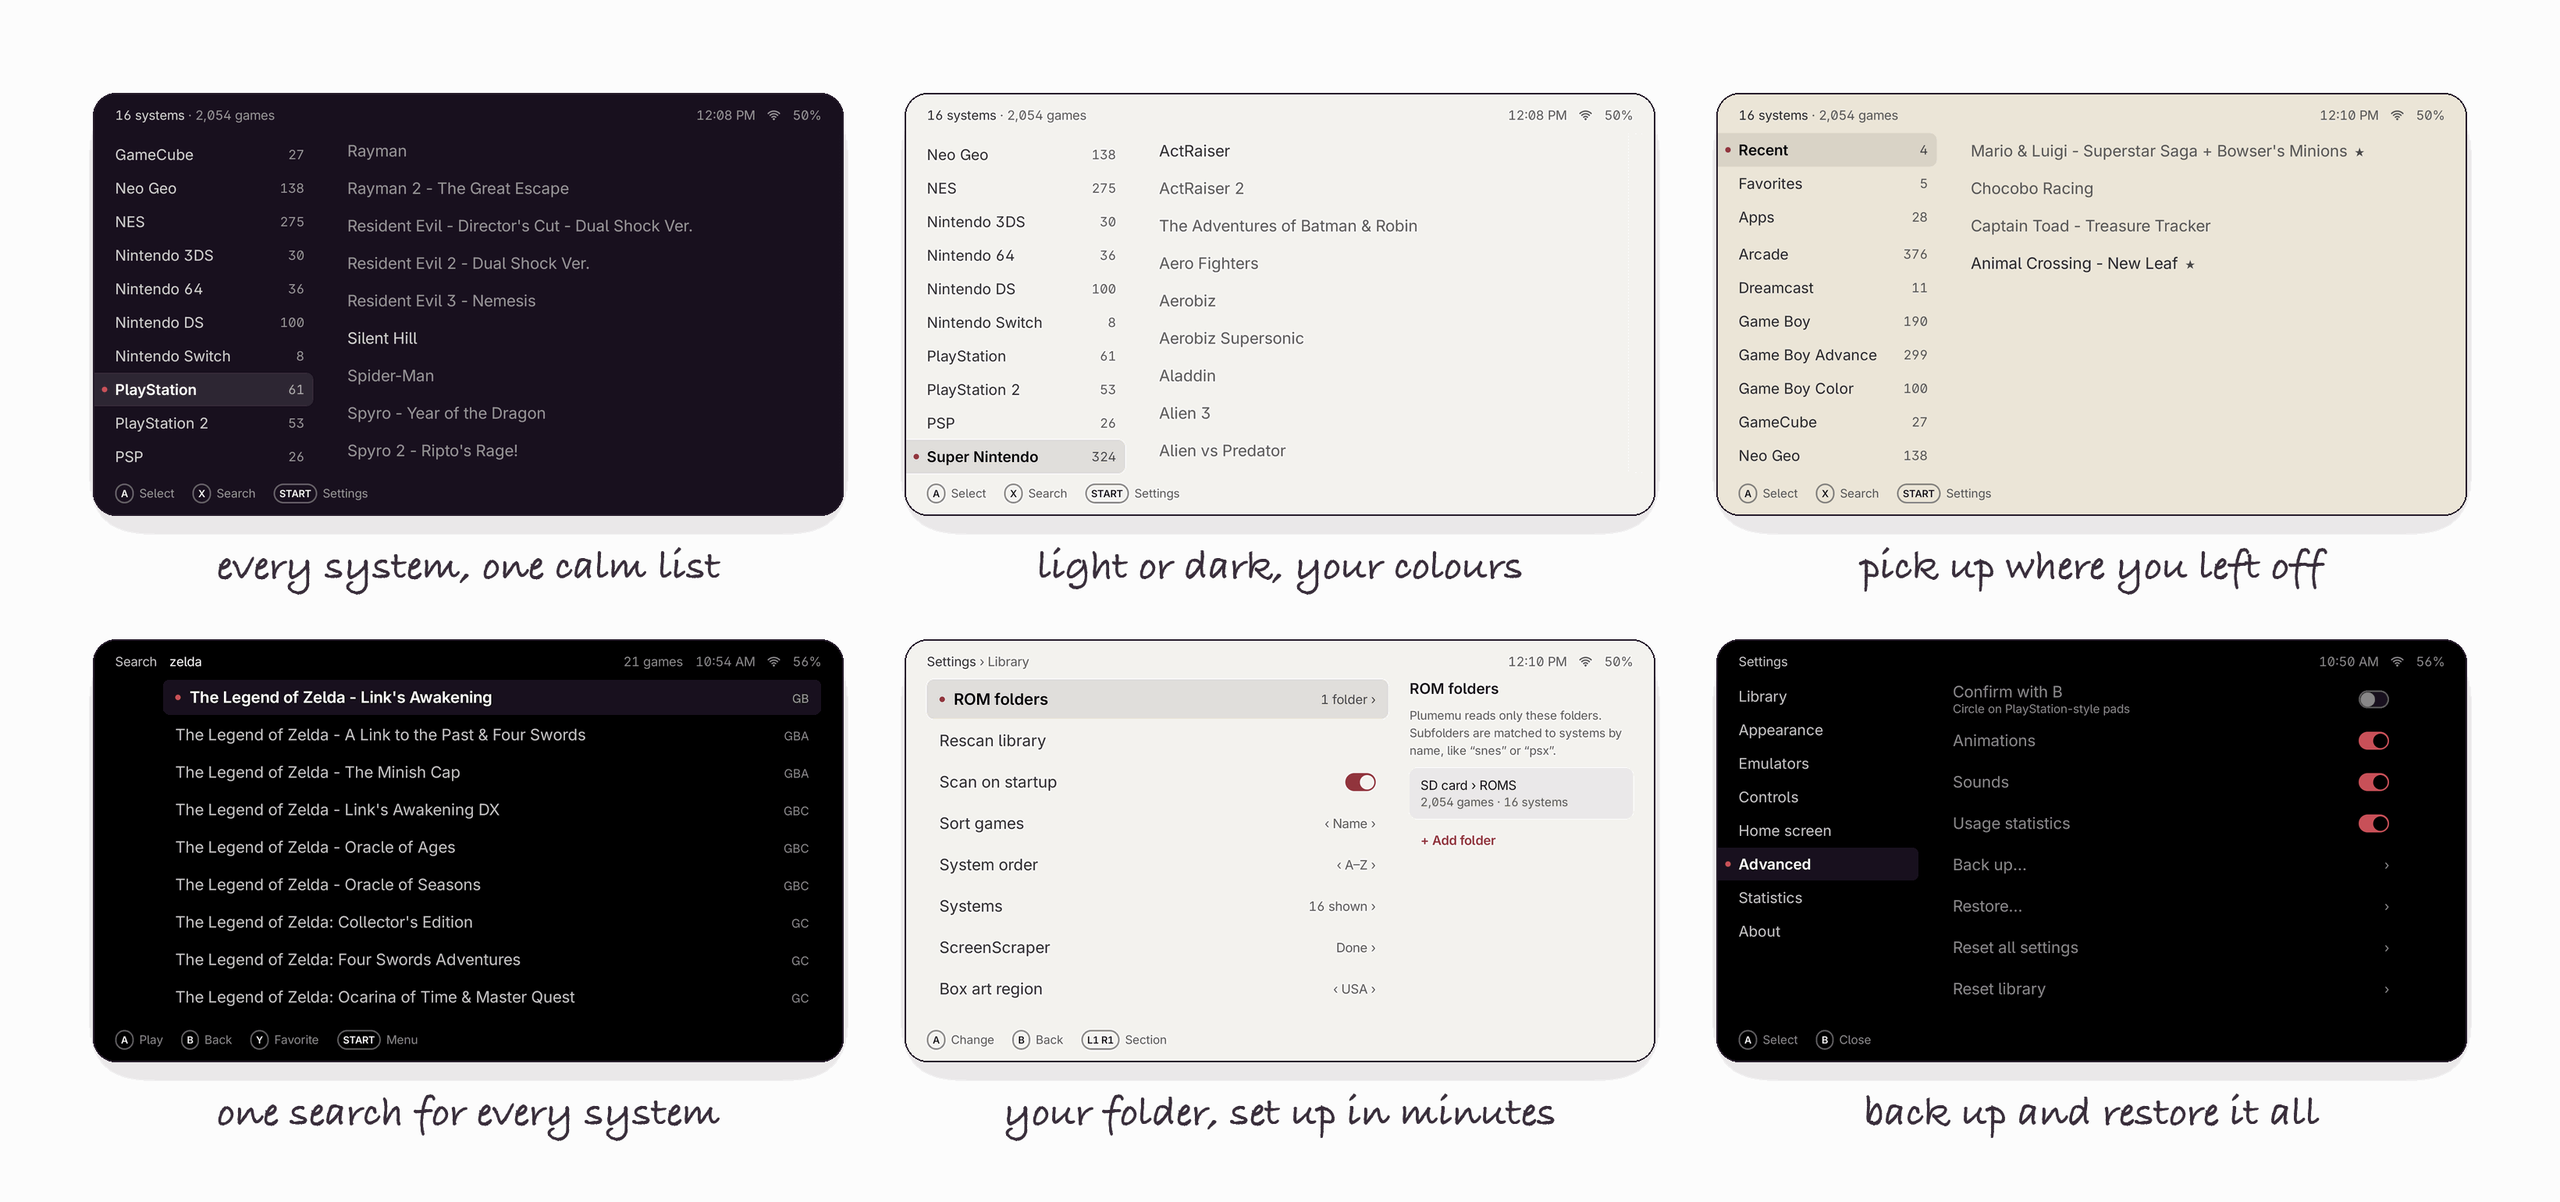
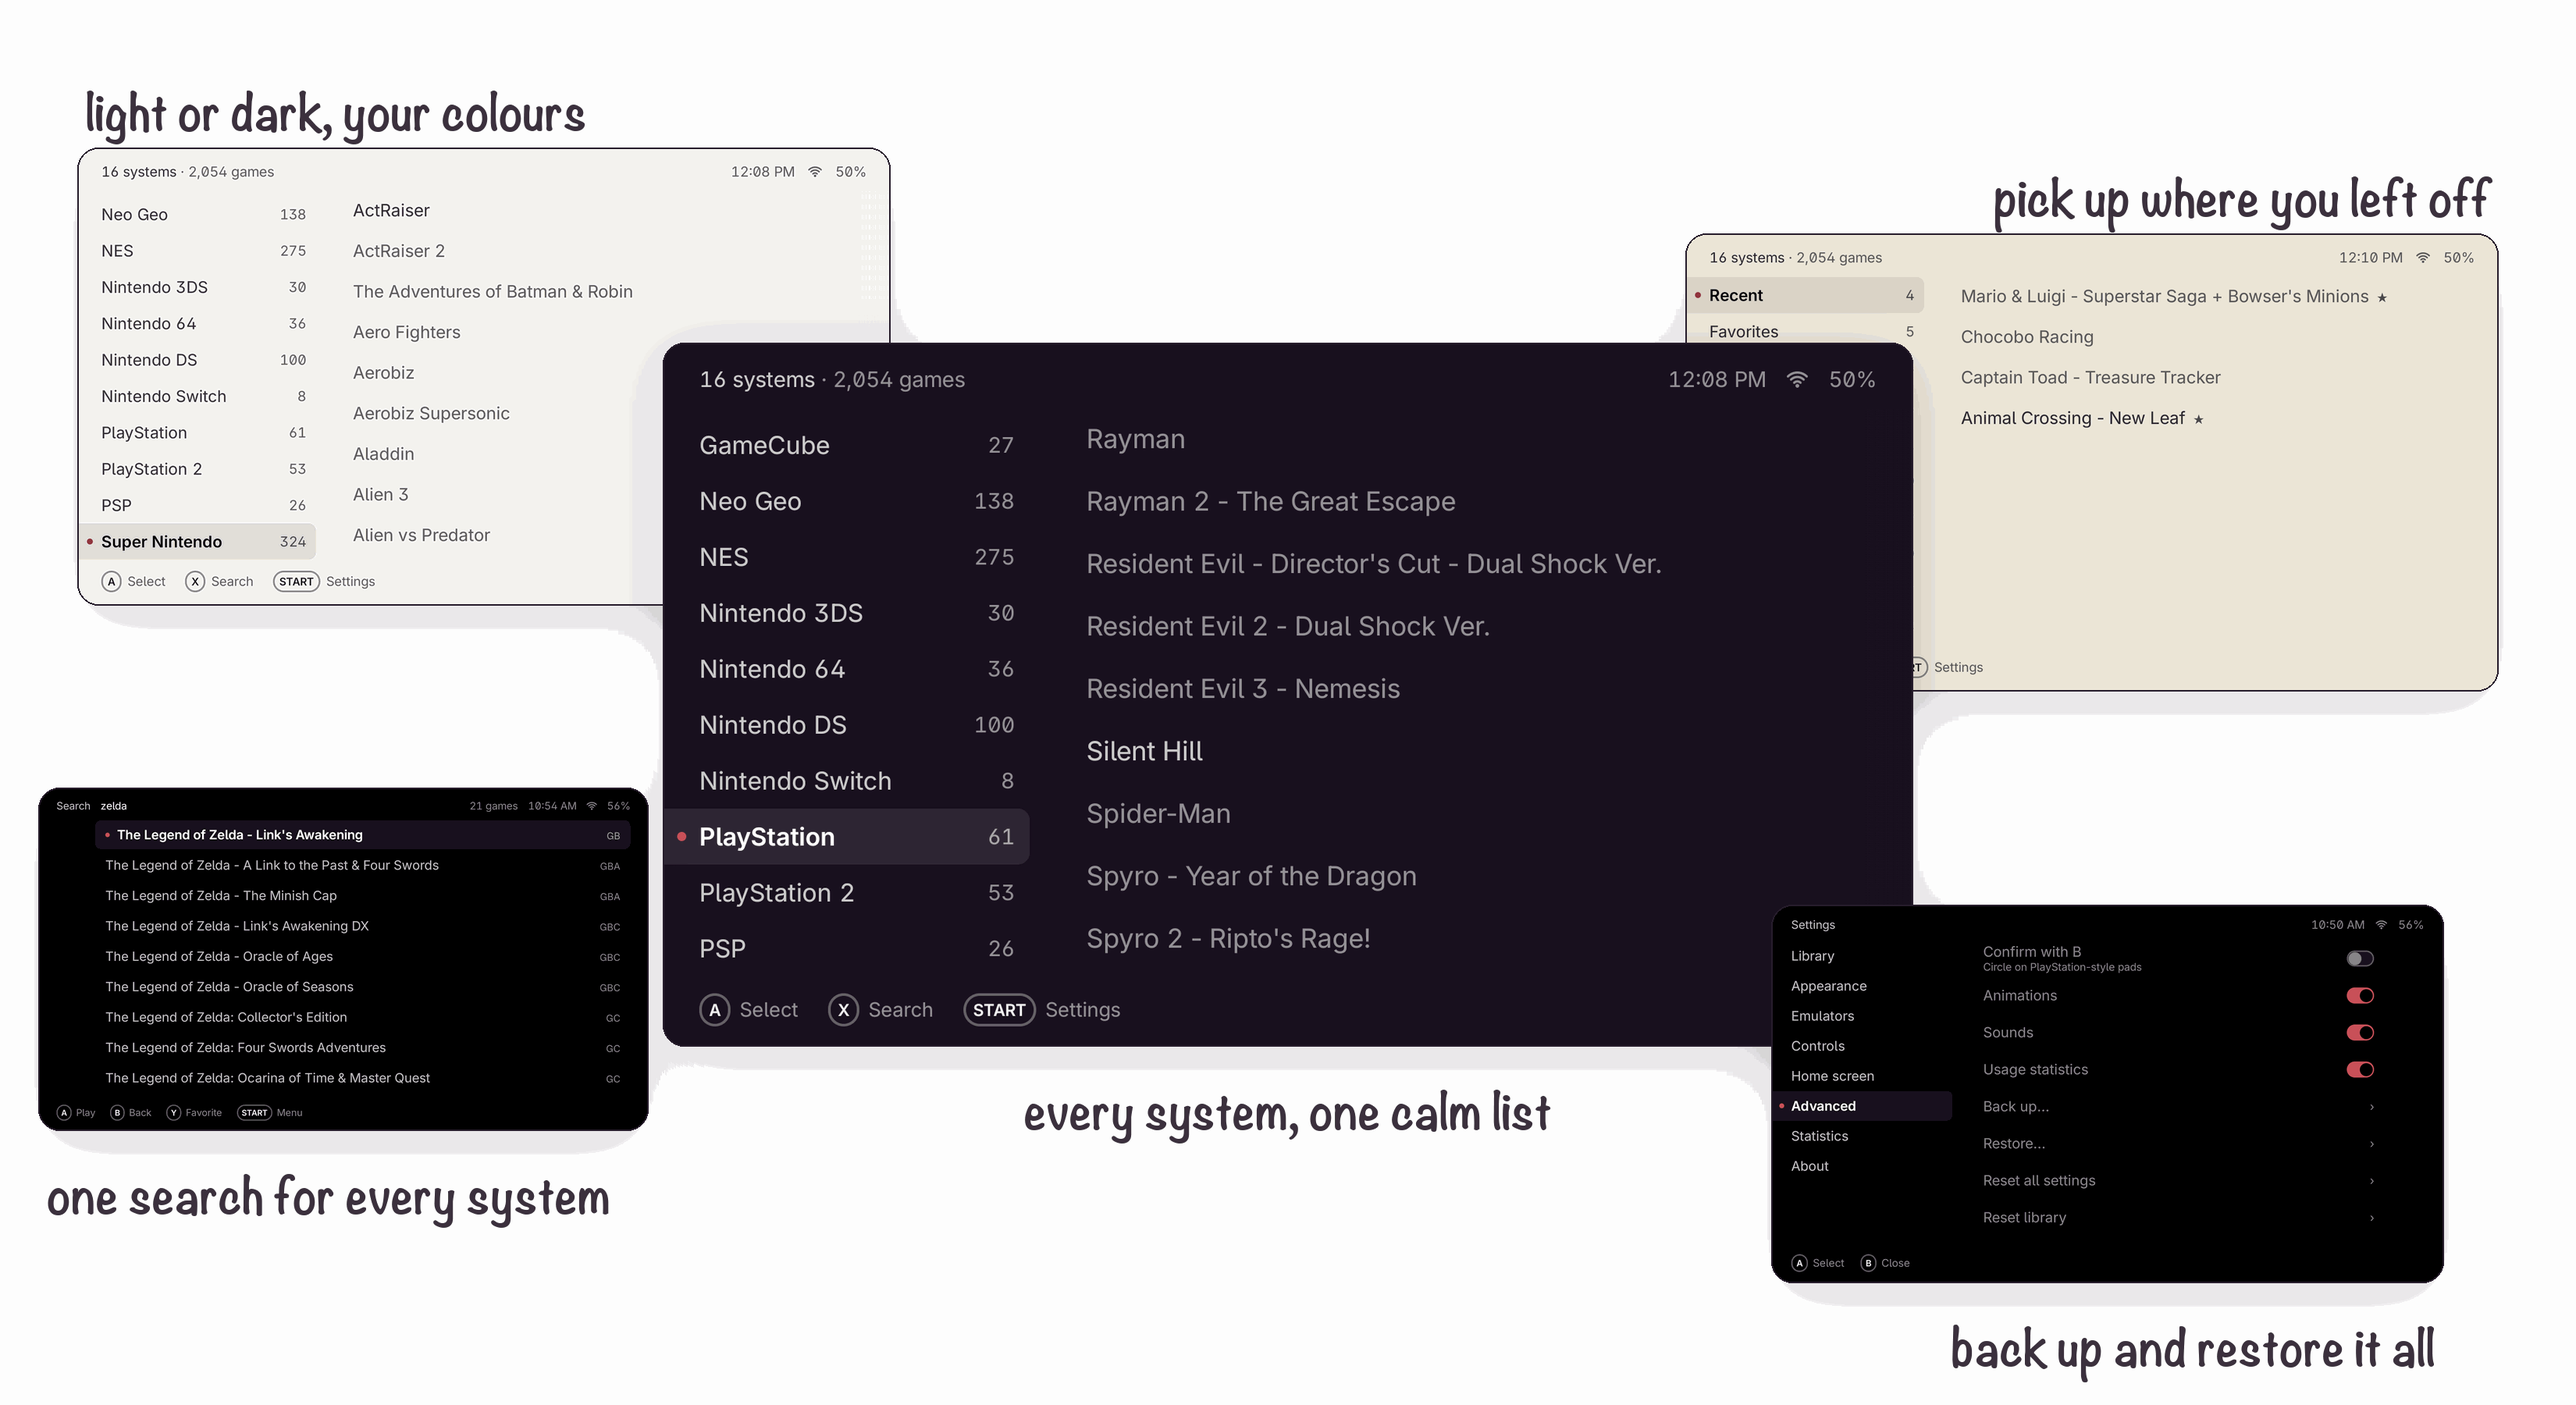
Hero: staggered screens of different sizes, plainer handwriting

diff --git a/README.md b/README.md
@@ -3,7 +3,7 @@
 <p align="center">A calm, light launcher for Android retro handhelds.</p>
 
 <p align="center">
-  <img src="media/hero.png" width="100%" alt="Six Plumemu screens from the AYN Thor in four colour schemes: the system list in Plum, Paper and Sand, search across every system, the ROM folder settings, and Back up and Restore">
+  <img src="media/hero.png" width="100%" alt="Five Plumemu screens from the AYN Thor in four colour schemes: the system list in Plum in the middle, Paper and Sand behind it, search across every system, and Back up and Restore">
 </p>
 
 <p align="center">
